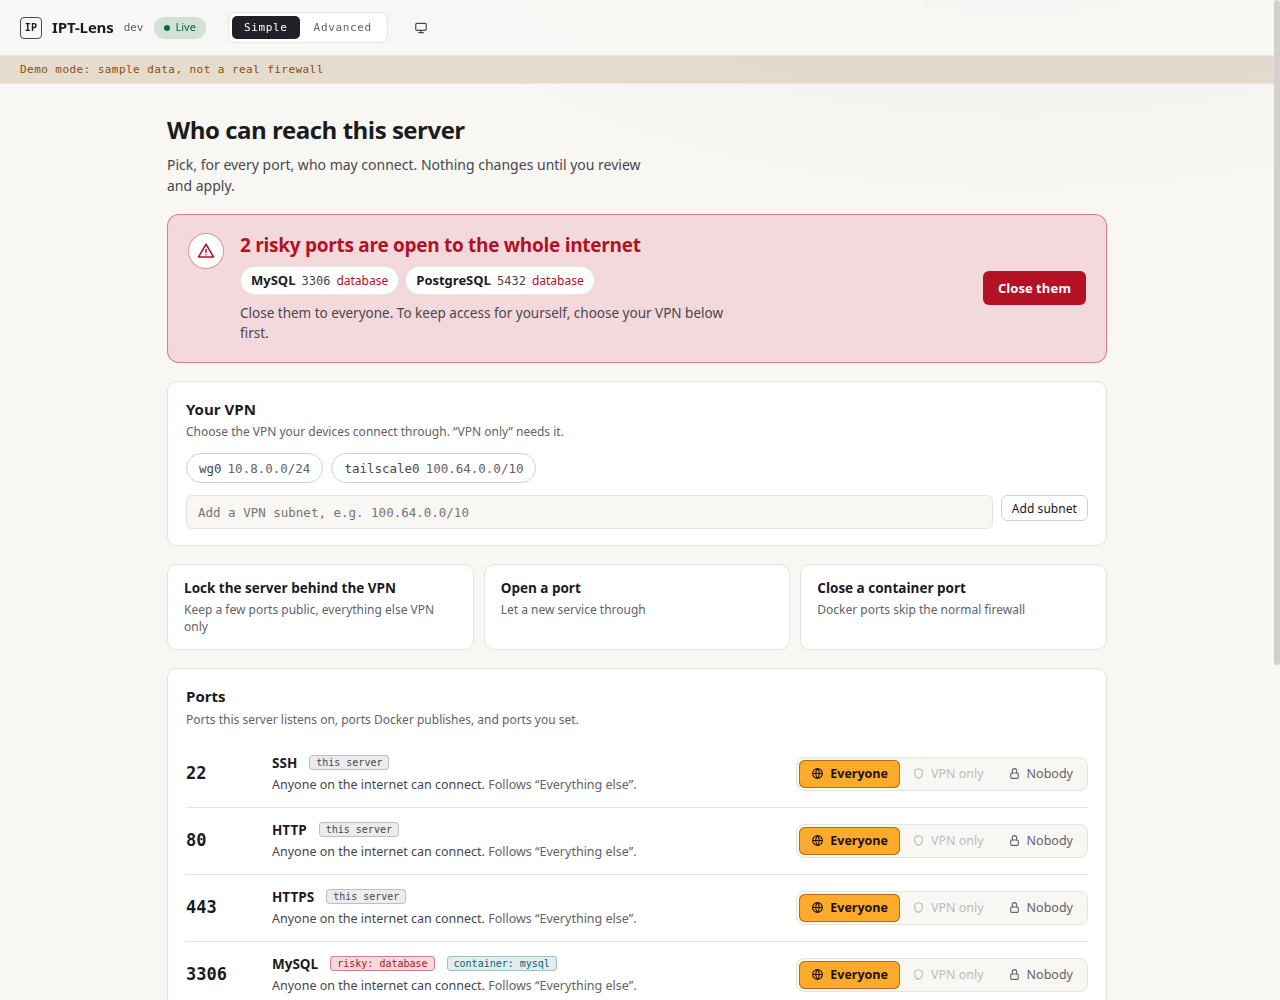
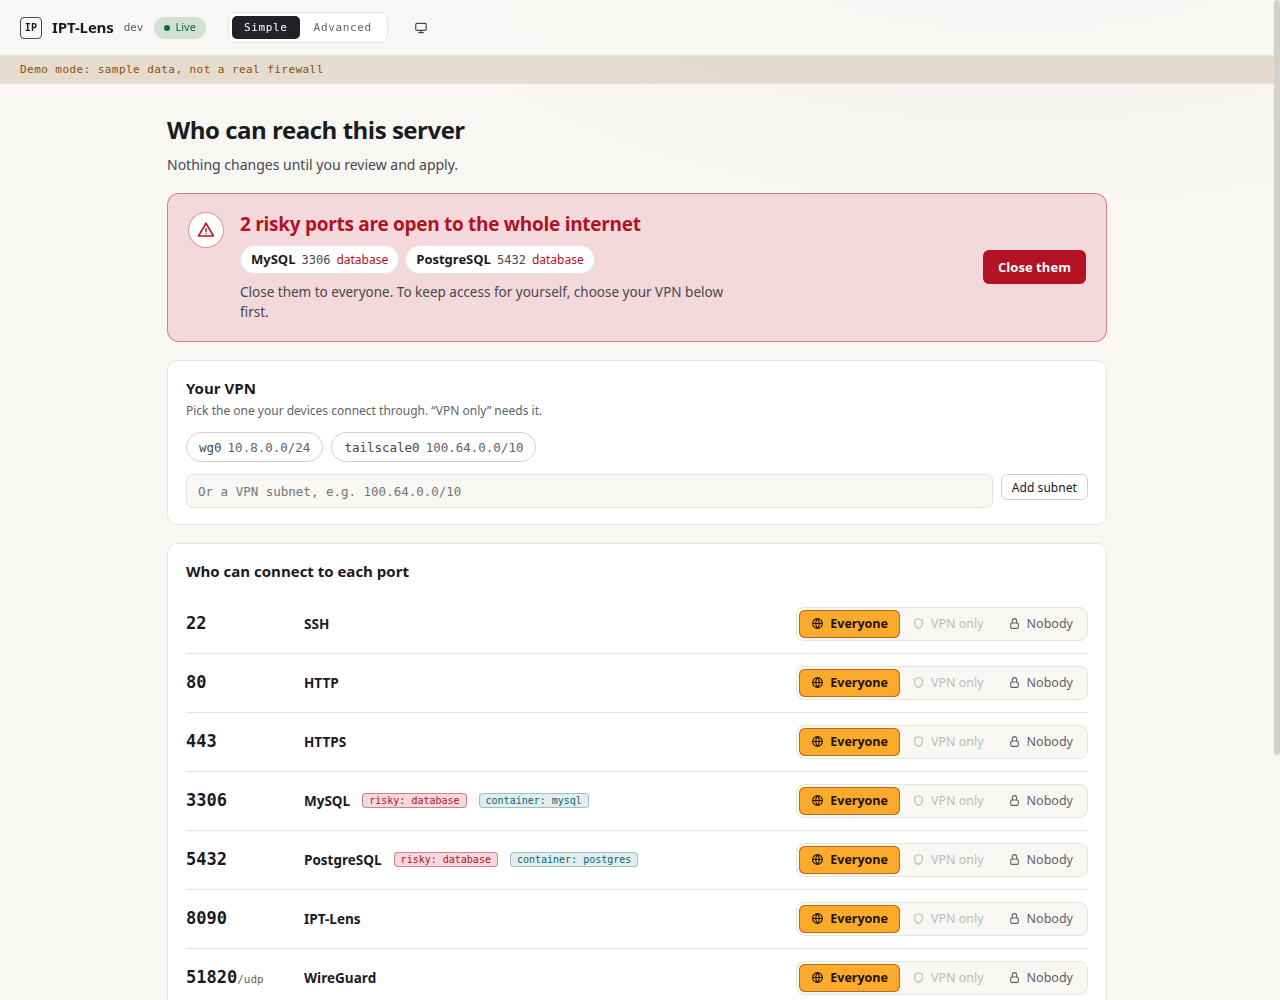
feat(simple): fewer things on screen, and warn before the VPN goes down
- the quick-task cards are gone: "Lock the server" lives in the status
  card, "Add a port" under the port list, and closing a container port
  is the row's own Nobody button
- the VPN card folds to one line once a VPN is chosen
- port rows drop the repeated sentence and the "this server" badge;
  "Everything else" is now "Any other port"
- the status card turns red first when a WireGuard, Tailscale or
  OpenVPN port would stop being public, which would take the VPN down
  and lock "VPN only" users out, with one button to keep it open
- wider port column so "51820/udp" no longer runs into the name; the
  unfolded VPN header no longer overlaps on phones

diff --git a/web/dist/simple.js b/web/dist/simple.js
@@ -8,11 +8,6 @@
   const MODE_KEY = "iptlens_mode";
   const LEVELS = ["public", "vpn", "closed"];
   const LABEL = { public: "Everyone", vpn: "VPN only", closed: "Nobody" };
-  const SENTENCE = {
-    public: "Anyone on the internet can connect.",
-    vpn: "Only devices on your VPN can connect.",
-    closed: "Nobody can connect from outside.",
-  };
   // Pre-checked in "Lock the server": SSH, web, and VPN endpoints (which must
   // stay reachable from the internet, or the VPN itself goes down).
   // Shape as well as color tells the levels apart: open globe, shield, lock.
@@ -27,11 +22,13 @@
     warn: LEVEL_ICON.public,
     ok: icon('<path d="M12 3 5 6v6c0 4.5 3 7.5 7 9 4-1.5 7-4.5 7-9V6Z"/><path d="m9 12 2 2 4-4"/>'),
   };
+  const VPN_ENDPOINTS = new Set(["WireGuard", "Tailscale", "OpenVPN"]);
   const PUBLIC_BY_DEFAULT = new Set(["22/tcp", "80/tcp", "443/tcp", "51820/udp", "41641/udp", "1194/udp"]);
 
   let view = null; // last GET /api/v1/access
   let base = null; // the policy currently in force (normalized)
   let draft = null; // the policy being edited
+  let vpnOpen = false; // the VPN picker stays folded once a VPN is chosen
 
   const key = (port, proto) => `${port}/${proto}`;
   const clone = (o) => JSON.parse(JSON.stringify(o));
@@ -71,7 +68,7 @@
     let n = 0;
     if (vpnText(base) !== vpnText(draft)) n++;
     if (base.default !== draft.default) n++;
-    // A row that just follows "Everything else" is covered by the default's change.
+    // A row that just follows "Any other port" is covered by the default's change.
     allRows().forEach((r) => {
       const a = levelIn(base, r.port, r.proto);
       const b = levelIn(draft, r.port, r.proto);
@@ -103,6 +100,7 @@
 
   /* ---------- data ---------- */
   async function load() {
+    vpnOpen = false;
     try {
       view = await L.api("/api/v1/access");
       base = normalize(view.policy, view.configured);
@@ -143,7 +141,6 @@
     const title = titleOf(r);
     const tags = [];
     if (exposed && r.risk) tags.push(`<span class="badge badge-risk">risky: ${L.esc(r.risk)}</span>`);
-    if (r.host) tags.push(`<span class="badge badge-iface">this server</span>`);
     r.containers.forEach((c) => tags.push(`<span class="badge badge-docker">container: ${L.esc(c)}</span>`));
     if (r.locked) tags.push(`<span class="badge badge-vpn">IPT-Lens</span>`);
     return `<span class="s-title"><b>${L.esc(title)}</b> ${tags.join(" ")}</span>`;
@@ -182,9 +179,13 @@
     if (!list.children.length) {
       list.append(L.el("p", "hint", "No VPN interface found (wg*, tailscale*, tun*, zt*). Add your VPN subnet below."));
     }
-    $("s-vpn-status").textContent = hasVPN(draft)
-      ? `Devices connecting through ${vpnText(draft)} count as your VPN.`
-      : "Choose the VPN your devices connect through. “VPN only” needs it.";
+    const folded = hasVPN(draft) && !vpnOpen;
+    $("s-vpn-edit").hidden = folded;
+    $("s-vpn-change").hidden = !folded;
+    $("s-vpn-card").classList.toggle("folded", folded);
+    $("s-vpn-status").innerHTML = hasVPN(draft)
+      ? `<span class="mono">${L.esc(vpnText(draft))}</span>`
+      : "Pick the one your devices connect through. “VPN only” needs it.";
   }
 
   function renderRows() {
@@ -200,9 +201,6 @@
       if (r.proto !== "tcp") port.append(L.el("span", "s-proto", "/" + r.proto));
       const what = L.el("div", "s-what");
       what.innerHTML = describe(r, cur.level === "public");
-      const sentence = L.el("div", "s-sentence", SENTENCE[cur.level]);
-      if (!cur.explicit) sentence.append(L.el("span", "tert", " Follows “Everything else”."));
-      what.append(sentence);
       row.append(port, what, levelButtons(r.port, r.proto, cur.level, {
         locked: r.locked,
         onPick: (lvl) => { setLevel(r.port, r.proto, lvl); render(); },
@@ -216,8 +214,8 @@
     const label = L.el("div", "s-port", "*");
     label.setAttribute("aria-hidden", "true");
     const what = L.el("div", "s-what");
-    what.innerHTML = "<b>Everything else</b>";
-    what.append(L.el("div", "s-sentence", `${SENTENCE[draft.default]} Applies to every port not listed above, including ones that start listening later.`));
+    what.innerHTML = "<b>Any other port</b>";
+    what.append(L.el("div", "s-sentence", "Including ports that open later."));
     def.append(label, what, levelButtons(0, "", draft.default, {
       label: "Who can reach every other port",
       onPick: (lvl) => { draft.default = lvl; render(); },
@@ -230,6 +228,11 @@
     const box = $("s-verdict");
     const open = allRows().filter((r) => levelIn(draft, r.port, r.proto).level === "public");
     const risky = open.filter((r) => r.risk);
+    // A VPN endpoint must stay reachable from the internet, or the VPN goes down
+    // and "VPN only" locks everyone out.
+    const endpoints = hasVPN(draft)
+      ? allRows().filter((r) => VPN_ENDPOINTS.has(r.name) && levelIn(draft, r.port, r.proto).level !== "public")
+      : [];
     const portList = (rows, withRisk) => {
       const ul = L.el("ul", "s-v-ports");
       rows.forEach((r) => {
@@ -241,7 +244,17 @@
       return ul;
     };
     let tone, title, body = [], action = null;
-    if (risky.length) {
+    if (endpoints.length) {
+      tone = "bad";
+      title = "Your VPN would stop working";
+      body.push(portList(endpoints, false));
+      body.push(L.el("p", "s-v-text", "Devices connect to these from the internet before they are on the VPN, so they must stay open to everyone."));
+      action = {
+        label: endpoints.length === 1 ? `Keep ${endpoints[0].name} open` : "Keep them open",
+        cls: "btn-danger",
+        run: () => { endpoints.forEach((r) => setLevel(r.port, r.proto, "public")); render(); },
+      };
+    } else if (risky.length) {
       tone = "bad";
       const n = risky.length;
       title = n === 1 ? "1 risky port is open to the whole internet" : `${n} risky ports are open to the whole internet`;
@@ -261,11 +274,11 @@
       };
     } else if (draft.default === "public") {
       tone = "warn";
-      title = "Every new service will be open to the whole internet";
+      title = "New services will be open to the whole internet";
       if (open.length) {
         body.push(L.el("p", "s-v-text", "Open to everyone right now:"), portList(open, false));
       }
-      body.push(L.el("p", "s-v-text", "“Everything else” is set to Everyone, so any port that starts listening later is public too."));
+      body.push(L.el("p", "s-v-text", "“Any other port” is set to Everyone."));
       action = { label: "Lock the server behind the VPN", cls: "btn-primary", run: taskLock };
     } else {
       tone = "ok";
@@ -400,7 +413,7 @@
       picker = vpnPicker();
       body.push(L.el("div", "field-label", "2. Which VPN do your devices use?"), picker.node);
     }
-    body.push(L.el("p", "hint", "Every other port, including Docker ports and ports that open later, becomes VPN only."));
+    body.push(L.el("p", "hint", "Every other port, Docker ones and ones that open later included, becomes VPN only."));
     L.openModal({
       title: "Lock the server behind the VPN",
       body,
@@ -441,7 +454,7 @@
     const field = (label, input) => { const l = L.el("label", "", label); l.append(input); return l; };
     grid.append(field("Port", port), field("Protocol", proto), field("Who can connect", who));
     L.openModal({
-      title: "Open a port",
+      title: "Add a port",
       body: [grid],
       actions: [
         { label: "Cancel", cls: "btn-ghost", onClick: L.dismissModal },
@@ -458,43 +471,10 @@
     });
   }
 
-  function taskContainer() {
-    const rows = allRows().filter((r) => r.containers.length);
-    if (!rows.length) {
-      L.toast("No published container ports found.", "info");
-      return;
-    }
-    const checks = rows.map((r) => ({ r, ...check(`<span class="mono">${r.port}</span> ${describe(r)}`, false) }));
-    const who = L.el("select");
-    who.append(new Option("Nobody", "closed"));
-    if (hasVPN(draft)) who.append(new Option("VPN only", "vpn"));
-    who.setAttribute("aria-label", "Who can still connect");
-    const pick = L.el("label", "", "Who can still connect");
-    pick.append(who);
-    L.openModal({
-      title: "Close a container port",
-      sub: "Docker publishes ports past the normal firewall rules. These rules reach them anyway.",
-      body: [L.el("div", "field-label", "Ports to close"), ...checks.map((c) => c.node), pick],
-      actions: [
-        { label: "Cancel", cls: "btn-ghost", onClick: L.dismissModal },
-        { label: "Continue to review", cls: "btn-primary", onClick: () => {
-          const chosen = checks.filter((c) => c.input.checked);
-          if (!chosen.length) { L.toast("Pick at least one port.", "error"); return; }
-          chosen.forEach(({ r }) => setLevel(r.port, r.proto, who.value));
-          L.closeModal();
-          render();
-          review();
-        } },
-      ],
-    });
-  }
-
   /* ---------- events ---------- */
   document.querySelectorAll(".mode-switch .seg-btn").forEach((b) => b.addEventListener("click", () => setMode(b.dataset.mode)));
-  document.querySelectorAll(".s-task").forEach((b) => b.addEventListener("click", () => {
-    if (!view) return;
-    ({ lock: taskLock, open: taskOpen, container: taskContainer })[b.dataset.task]();
-  }));
+  $("s-add-port").addEventListener("click", () => { if (view) taskOpen(); });
+  $("s-vpn-change").addEventListener("click", () => { vpnOpen = true; render(); $("s-vpn-list").querySelector("button")?.focus(); });
   $("s-vpn-add").addEventListener("click", () => {
     const v = $("s-vpn-subnet").value.trim();
     if (!/^\d{1,3}(\.\d{1,3}){3}(\/\d{1,2})?$/.test(v)) { L.toast("Enter an IPv4 subnet such as 100.64.0.0/10.", "error"); return; }

diff --git a/web/dist/style.css b/web/dist/style.css
@@ -471,6 +471,17 @@ tbody td:nth-child(2) { white-space: nowrap; }
 .s-card { background: var(--surface); border: 1px solid var(--line); border-radius: 10px; padding: 16px 18px; display: flex; flex-direction: column; gap: 12px; }
 .s-card-h h2 { margin: 0; font-size: 15px; font-weight: 600; }
 .s-card-h .hint { margin-top: 3px; }
+.s-vpn-h { display: grid; grid-template-columns: minmax(0, 1fr) auto; column-gap: 12px; align-items: center; }
+.s-vpn-h > h2, .s-vpn-h > .hint { grid-column: 1; }
+.s-vpn-h #s-vpn-change { grid-column: 2; grid-row: 1 / span 2; }
+#s-vpn-card.folded .s-vpn-h > .hint { grid-column: 2; grid-row: 1; }
+.s-vpn-edit { display: flex; flex-direction: column; gap: 12px; }
+.s-vpn-edit[hidden] { display: none; }
+#s-vpn-card.folded { padding-block: 12px; }
+#s-vpn-card.folded .s-vpn-h { grid-template-columns: auto minmax(0, 1fr) auto; }
+#s-vpn-card.folded .s-vpn-h #s-vpn-change { grid-column: 3; grid-row: 1; }
+#s-vpn-card.folded .hint { margin: 0; color: var(--vpn); font-size: 13px; }
+.s-add-port { align-self: flex-start; margin-top: 4px; }
 
 .s-chips { display: flex; flex-wrap: wrap; gap: 8px; }
 .s-chip {
@@ -483,26 +494,16 @@ tbody td:nth-child(2) { white-space: nowrap; }
 .s-inline { display: flex; gap: 8px; }
 .s-inline input { flex: 1; min-width: 0; }
 
-.s-tasks { display: grid; grid-template-columns: repeat(3, minmax(0, 1fr)); gap: 10px; }
-.s-task {
-  text-align: left; display: flex; flex-direction: column; gap: 4px; padding: 14px 16px; border-radius: 10px; cursor: pointer;
-  background: var(--surface); border: 1px solid var(--line); color: var(--t1);
-  transition: border-color var(--ease), background var(--ease), transform var(--ease);
-}
-.s-task b { font-size: 13.5px; font-weight: 600; }
-.s-task span { font-size: 12px; color: var(--t3); }
-.s-task:hover { border-color: var(--line-2); background: var(--raised); }
-.s-task:active { transform: translateY(1px); }
 
 .s-rows { display: flex; flex-direction: column; }
 .s-row {
-  display: grid; grid-template-columns: 72px minmax(0, 1fr) auto; align-items: center; gap: 14px;
+  display: grid; grid-template-columns: 104px minmax(0, 1fr) auto; align-items: center; gap: 14px;
   padding: 12px 0; border-top: 1px solid var(--line);
 }
 .s-rows > .s-row:first-child { border-top: 0; }
 .s-row.changed .s-port { color: var(--edit); }
 .s-row.changed .s-port::after { content: "•"; margin-left: 4px; }
-.s-port { font-size: 17px; font-weight: 600; color: var(--t1); font-variant-numeric: tabular-nums; }
+.s-port { white-space: nowrap; font-size: 17px; font-weight: 600; color: var(--t1); font-variant-numeric: tabular-nums; }
 .s-proto { font-size: 11px; color: var(--t3); font-weight: 400; }
 .s-what { min-width: 0; display: flex; flex-direction: column; gap: 3px; }
 .s-what b { font-weight: 600; }
@@ -547,12 +548,11 @@ tbody td:nth-child(2) { white-space: nowrap; }
 
 @media (max-width: 720px) {
   .simple { padding: 20px 16px 120px; }
-  .s-tasks { grid-template-columns: 1fr; }
-  .s-row { grid-template-columns: 56px minmax(0, 1fr); }
+  .s-row { grid-template-columns: 96px minmax(0, 1fr); }
   .s-row .s-levels { grid-column: 1 / -1; justify-self: start; }
   .s-wiz-grid { grid-template-columns: 1fr; }
   .s-bar { left: 16px; right: 16px; transform: none; justify-content: space-between; }
 }
 @media (prefers-reduced-motion: reduce) {
-  .s-task, .s-lvl, .s-chip { transition: none; }
+  .s-lvl, .s-chip { transition: none; }
 }

diff --git a/web/dist/index.html b/web/dist/index.html
@@ -38,45 +38,33 @@
   <main id="simple" class="simple" hidden>
     <header class="s-head">
       <h1>Who can reach this server</h1>
-      <p>Pick, for every port, who may connect. Nothing changes until you review and apply.</p>
+      <p>Nothing changes until you review and apply.</p>
     </header>
 
     <section id="s-verdict" class="s-verdict" aria-label="How exposed this server is" hidden></section>
 
-    <section class="s-card" aria-labelledby="s-vpn-title">
-      <div class="s-card-h">
+    <section id="s-vpn-card" class="s-card" aria-labelledby="s-vpn-title">
+      <div class="s-card-h s-vpn-h">
         <h2 id="s-vpn-title">Your VPN</h2>
         <p id="s-vpn-status" class="hint"></p>
+        <button id="s-vpn-change" class="btn btn-ghost btn-sm" type="button" hidden>Change</button>
       </div>
-      <div id="s-vpn-list" class="s-chips"></div>
-      <div class="s-inline">
-        <input id="s-vpn-subnet" class="mono" placeholder="Add a VPN subnet, e.g. 100.64.0.0/10" aria-label="VPN subnet">
-        <button id="s-vpn-add" class="btn btn-ghost btn-sm" type="button">Add subnet</button>
+      <div id="s-vpn-edit" class="s-vpn-edit">
+        <div id="s-vpn-list" class="s-chips"></div>
+        <div class="s-inline">
+          <input id="s-vpn-subnet" class="mono" placeholder="Or a VPN subnet, e.g. 100.64.0.0/10" aria-label="VPN subnet">
+          <button id="s-vpn-add" class="btn btn-ghost btn-sm" type="button">Add subnet</button>
+        </div>
       </div>
-    </section>
-
-    <section class="s-tasks" aria-label="Quick tasks">
-      <button class="s-task" data-task="lock" type="button">
-        <b>Lock the server behind the VPN</b>
-        <span>Keep a few ports public, everything else VPN only</span>
-      </button>
-      <button class="s-task" data-task="open" type="button">
-        <b>Open a port</b>
-        <span>Let a new service through</span>
-      </button>
-      <button class="s-task" data-task="container" type="button">
-        <b>Close a container port</b>
-        <span>Docker ports skip the normal firewall</span>
-      </button>
     </section>
 
     <section class="s-card s-ports" aria-labelledby="s-ports-title">
       <div class="s-card-h">
-        <h2 id="s-ports-title">Ports</h2>
-        <p class="hint">Ports this server listens on, ports Docker publishes, and ports you set.</p>
+        <h2 id="s-ports-title">Who can connect to each port</h2>
       </div>
       <div id="s-rows" class="s-rows"></div>
       <div id="s-default" class="s-row s-default"></div>
+      <button id="s-add-port" class="btn btn-ghost btn-sm s-add-port" type="button">Add a port</button>
     </section>
 
     <p id="s-notes" class="hint s-notes"></p>

diff --git a/internal/api/access.go b/internal/api/access.go
@@ -267,7 +267,7 @@ func previewOf(cur, next iptables.AccessPolicy, rows []accessRow, ipv6 bool) acc
 	curDef, _ := levelOf(cur, 0, "")
 	nextDef, _ := levelOf(next, 0, "")
 	if curDef != nextDef {
-		pv.Changes = append(pv.Changes, fmt.Sprintf("Everything else: %s → %s", levelLabel[curDef], levelLabel[nextDef]))
+		pv.Changes = append(pv.Changes, fmt.Sprintf("Any other port: %s → %s", levelLabel[curDef], levelLabel[nextDef]))
 	}
 
 	type key struct {

diff --git a/internal/api/access_test.go b/internal/api/access_test.go
@@ -65,7 +65,7 @@ func TestAccessPreviewSentences(t *testing.T) {
 	}
 	all := strings.Join(p.Changes, "\n")
 	for _, want := range []string{
-		"Everything else: Everyone → VPN only",
+		"Any other port: Everyone → VPN only",
 		"Port 3306 (MySQL): Everyone → Nobody",
 		"VPN: wg0",
 	} {

diff --git a/README.md b/README.md
@@ -20,12 +20,13 @@ confirm it**. If you lose access and cannot confirm, the change rolls itself bac
 
 ## Features
 
-- **Simple view: who can reach which port.** One list of the ports this server
-  listens on and the ports Docker publishes. For each, pick **Everyone**,
-  **VPN only** or **Nobody**, plus one setting for every other port. Quick tasks
-  cover the common jobs: *lock the server behind the VPN*, *open a port*,
-  *close a container port*. Every change is shown in plain sentences before it
-  is applied. You never write an iptables rule. Colors show exposure, not
+- **Simple view: who can reach which port.** It opens with one sentence on
+  how exposed the server is: risky ports open to the internet (databases, the
+  Docker API, remote desktop, ...) are named, with one button to fix them, and
+  it warns before a change would take your VPN down. Below is one list of the
+  ports this server listens on and the ports Docker publishes. For each, pick
+  **Everyone**, **VPN only** or **Nobody**, plus one setting for any other
+  port. Every change is shown in plain sentences before it is applied. You never write an iptables rule. Colors show exposure, not
   "good" or "bad": amber is open to the internet, blue is VPN only, grey with a
   lock is closed; each level also has its own icon.
 - **Readable ruleset (Advanced view).** ([screenshot](docs/images/advanced.png)) All four tables, chains in kernel order, packet and byte

diff --git a/CHANGELOG.md b/CHANGELOG.md
@@ -13,6 +13,16 @@ and the project uses [Semantic Versioning](https://semver.org/).
   etcd, Prometheus, Telnet/FTP, SMB/NFS, remote desktop) are called out as
   risky, with one button that makes them VPN only (or closes them when no VPN
   is chosen). The change goes through the usual review and confirm steps.
+  It also warns, before anything else, when a VPN endpoint (WireGuard,
+  Tailscale, OpenVPN) would stop being reachable and take the VPN down.
+
+### Changed
+
+- The simple view is shorter: the quick-task cards are gone ("Lock the
+  server" moved into the status card, "Add a port" sits under the port list,
+  and closing a container port is the row's own *Nobody* button), the VPN
+  card folds to one line once a VPN is chosen, port rows drop the repeated
+  sentence, and "Everything else" is now "Any other port".
 
 ### Changed
 
